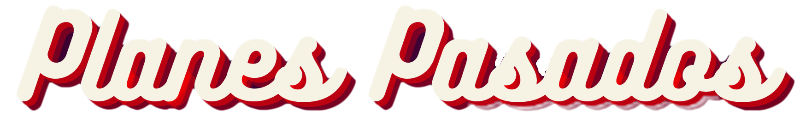
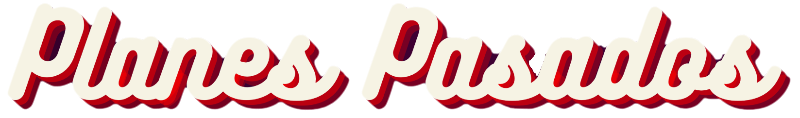
termine los botones

diff --git a/src/screens/LoginScreen.jsx b/src/screens/LoginScreen.jsx
@@ -1,6 +1,6 @@
 //Native
 import AsyncStorage from "@react-native-async-storage/async-storage";
-import { View, Text, ScrollView, Alert } from "react-native";
+import { View, Text, ScrollView, Alert, TouchableOpacity } from "react-native";
 import { useNavigation } from "@react-navigation/native";
 import { LinearGradient } from "expo-linear-gradient";
 import { useDispatch } from "react-redux";
@@ -17,7 +17,8 @@ import { setPlanHistory, setUser, setUserPlans } from "../state/user";
 import { API_URL } from "../services/urls";
 import refetchData from "../services/refetchData";
 import { getPlanHistory } from "../services/getPlanHistory";
-
+import iniciaSesion from '../assets/iniciaSesion.png'
+import { Image } from "react-native";
 export default function LoginScreen() {
   const navigation = useNavigation();
   const dispatch = useDispatch();
@@ -76,12 +77,21 @@ export default function LoginScreen() {
             secureTextEntry={true}
           />
           <View style={styles.inputContainer}>
-            <GenericButton onPress={handleLogin} text={"Iniciar Sesion"} />
+         
+            <View style={styles.logoutContainer}>
+              <TouchableOpacity onPress={handleLogin}>
+                <Image style={styles.logo} source={iniciaSesion} />
+              </TouchableOpacity>
+            </View>
+            
+
             <Text style={styles.text} onPress={handleSignup}>
               ¿No tienes cuenta? Crea una
             </Text>
-          </View>
+
           <GoogleSignInButton />
+          
+          </View>
         </View>
       </ScrollView>
     </LinearGradient>

diff --git a/src/screens/ContactsScreen.jsx b/src/screens/ContactsScreen.jsx
@@ -1,7 +1,7 @@
 // Native
 import { useNavigation } from "@react-navigation/core";
 import { LinearGradient } from "expo-linear-gradient";
-import { View, Text, ScrollView, TouchableOpacity } from "react-native";
+import { View, Text, ScrollView, TouchableOpacity, Image } from "react-native";
 import React, { useEffect, useState } from "react";
 import { useSelector, useDispatch } from "react-redux";
 // Components
@@ -15,7 +15,7 @@ import { fetchContacts } from "../services/fetchContacts";
 import { SingleContact } from "../components/SingleContact";
 import { setSelectedContact } from "../state/selectedContact";
 import { GenericButton } from "../components/GenericButton";
-
+import iniciaSesion from '../assets/iniciaSesion.png'
 export default function ContactsScreen() {
   const [contacts, setContacts] = useState([]);
   const [query, setQuery] = useState("");
@@ -107,10 +107,13 @@ export default function ContactsScreen() {
             Para ver contactos, inicie sesión
           </Text>
           <View style={{ flex: 1, alignItems: "center", marginTop: "5%" }}>
-            <GenericButton
-              text="Iniciar Sesión"
-              onPress={() => navigation.navigate("Login")}
-            />
+          
+<View style={styles.logoutContainer}>
+              <TouchableOpacity onPress={() => navigation.navigate("Login")}>
+                <Image style={styles.logo} source={iniciaSesion} />
+              </TouchableOpacity>
+            </View>
+            
           </View>
         </View>
       )}

diff --git a/src/screens/HomeScreen.jsx b/src/screens/HomeScreen.jsx
@@ -29,6 +29,8 @@ import { getPlanHistory } from "../services/getPlanHistory";
 import noTienesPlanes from "../assets/noTienesPlanes.png";
 import recomendaciones from "../assets/recomendaciones.png";
 import misPlanes from "../assets/misPlanes.png";
+import noPlanesCreados from "../assets/noPlanesCreados.png";
+import planesPasados from "../assets/planesPasados.png";
 
 export default function HomeScreen() {
   const user = useSelector((state) => state.user);
@@ -112,16 +114,16 @@ export default function HomeScreen() {
             {user.history && user.history[0] ? (
               <SwiperComponent
                 plans={user.history}
-                text="Planes pasados"
                 onPress={handlePress}
+                image={planesPasados}
+                styleLogo={styles.logoMisPPasados}
               />
             ) : (
-              <>
-                <Text style={styles.text}>Planes pasados</Text>
-                <Text style={[styles.text, { textAlign: "center" }]}>
-                  No tienes planes en tu historial
-                </Text>
-              </>
+              <View style={{ textAlign: "center" }}>
+                <View style={styles.logoutContainer}>
+                  <Image style={styles.logoNoPlanes} source={noPlanesCreados} />
+                </View>
+              </View>
             )}
           </View>
         )}

diff --git a/src/screens/PreferencesScreen.jsx b/src/screens/PreferencesScreen.jsx
@@ -1,5 +1,5 @@
 import React, { useState, useEffect } from "react";
-import { View, ScrollView, Text } from "react-native";
+import { Image, TouchableOpacity, View, ScrollView, Text } from "react-native";
 import { LinearGradient } from "expo-linear-gradient";
 import { styles } from "../styles/preferencesStyles";
 import { Navbar } from "../components/Navbar";
@@ -9,7 +9,7 @@ import { getCategories } from "../services/getCategories";
 import { addPreferences } from "../services/addPreferences";
 import { useNavigation } from "@react-navigation/core";
 import refetchData from "../services/refetchData";
-
+import actualizar from'../assets/actualizar.png'
 import { updateUser } from "../services/updateUser";
 
 export default function PreferencesScreen() {
@@ -62,11 +62,14 @@ export default function PreferencesScreen() {
             dropdownStyles={styles.inputContainer}
             badgeStyles={styles.badge}
           />
-          <GenericButton
-            customStyle={styles.button}
-            onPress={handleSubmit}
-            text={"Actualizar"}
-          />
+        
+
+<View style={styles.logoutContainer}>
+           <TouchableOpacity onPress={handleSubmit}>
+             <Image style={styles.logo} source={actualizar} />
+           </TouchableOpacity>
+         </View>
+         
         </View>
       </ScrollView>
     </LinearGradient>

diff --git a/src/screens/RegisterScreen.jsx b/src/screens/RegisterScreen.jsx
@@ -1,5 +1,5 @@
 // Native
-import { View, Text, ScrollView, Alert, TextInput } from "react-native";
+import { View, Text, ScrollView, Alert, TextInput, TouchableOpacity, Image } from "react-native";
 import { useNavigation } from "@react-navigation/native";
 import { LinearGradient } from "expo-linear-gradient";
 import React, { useEffect, useState } from "react";
@@ -11,6 +11,7 @@ import { Navbar } from "../components/Navbar";
 import { API_URL } from "../services/urls";
 import { styles } from "../styles/registerScreenStyles";
 import { DatePicker } from "../components/DatePicker";
+import crearCuenta from '../assets/crearCuenta.png'
 
 export default function RegisterScreen() {
   const [username, setUsername] = useState("");
@@ -122,7 +123,15 @@ export default function RegisterScreen() {
 
           <View style={styles.container2}>
             <View style={styles.crearCuenta}>
-              <GenericButton onPress={handleSubmit} text={"Crear Cuenta"} />
+           
+         
+         
+         <View style={styles.logoutContainer}>
+           <TouchableOpacity onPress={handleSubmit}>
+             <Image style={styles.logo} source={crearCuenta} />
+           </TouchableOpacity>
+         </View>
+         
             </View>
           </View>
         </View>

diff --git a/src/components/GoogleSignInButton.jsx b/src/components/GoogleSignInButton.jsx
@@ -8,6 +8,7 @@ import { useDispatch } from "react-redux";
 import { useNavigation } from "@react-navigation/native";
 import { setUser, setUserPlans } from "../state/user";
 import { API_URL, PORT } from "@env";
+import iniciarConGoogle from "../assets/iniciarConGoogle.png";
 
 import * as ReactNative from "react-native";
 import * as WebBrowser from "expo-web-browser";
@@ -131,14 +132,21 @@ const GoogleSignInButton = () => {
   };
 
   return (
-    <ReactNative.SafeAreaView>
-      <ReactNative.View style={styles.inputContainer}>
-        <GenericButton
-          disabled={!request}
-          onPress={onPressButton}
-          text={token ? "login con google" : "signup con google"}
-        />
-      </ReactNative.View>
+    <ReactNative.SafeAreaView style={{width:'100%', alignItems: "center",}}>
+     
+        <ReactNative.View style={styles.googleContainer}>
+          <ReactNative.TouchableOpacity
+
+            disabled={!request}
+            onPress={onPressButton}
+          >
+            <ReactNative.Image
+              style={styles.logoGoogle}
+              source={iniciarConGoogle}
+            />
+          </ReactNative.TouchableOpacity>
+        </ReactNative.View>
+     
     </ReactNative.SafeAreaView>
   );
 };

diff --git a/src/styles/loginScreenStyles.js b/src/styles/loginScreenStyles.js
@@ -8,9 +8,10 @@ export const styles = StyleSheet.create({
   },
   inputContainer: {
     alignItems: "center",
-    flex: 1,
+  
     paddingTop: "10%",
-    width: "70%",
+    width: "80%",
+  
   },
   scroll: {
     flex: 1,
@@ -31,4 +32,35 @@ export const styles = StyleSheet.create({
     fontSize: 16,
     fontWeight: "bold",
   },
+  logo:{
+    width: 120,
+    height: 21,
+  },
+  logoGoogle:{
+    width: 220,
+    height: 26,
+  },
+  logoutContainer: {
+    
+    paddingTop: 12,
+    paddingBottom:12,
+    borderRadius: 25,
+    alignItems: "center",
+    marginBottom: 10,
+    width: "90%",
+    backgroundColor:'rgba(0, 0, 0, 0.4)',
+  
+  },
+  googleContainer: {
+    
+    paddingTop: 10,
+    paddingBottom:10,
+    borderRadius: 25,
+    alignItems: "center",
+    marginBottom: 10,
+    width: "90%",
+    backgroundColor:'rgba(0, 0, 0, 0.4)',
+  
+  },
+  
 });

diff --git a/src/screens/ProfileScreen.jsx b/src/screens/ProfileScreen.jsx
@@ -143,7 +143,7 @@ export default function ProfileScreen() {
            
             <View style={styles.logout1Container}>
             <View style={styles.preferenciasContainer}>
-              <TouchableOpacity onPress={handleLogout}>
+              <TouchableOpacity onPress={handlePreferences}>
                 <Image style={styles.logoPref} source={preferencias} />
               </TouchableOpacity>
              

diff --git a/src/styles/stylesContact.js b/src/styles/stylesContact.js
@@ -60,4 +60,19 @@ export const styles = StyleSheet.create({
     marginTop: "5%",
     textAlign: "center",
   },
+  logo:{
+    width: 160,
+    height: 24,
+  },
+  logoutContainer: {
+    
+    paddingTop: 12,
+    paddingBottom:12,
+    borderRadius: 25,
+    alignItems: "center",
+    marginBottom: 10,
+    width: "75%",
+    backgroundColor:'rgba(0, 0, 0, 0.4)',
+  
+  },
 });

diff --git a/src/styles/registerScreenStyles.js b/src/styles/registerScreenStyles.js
@@ -65,4 +65,19 @@ export const styles = StyleSheet.create({
     alignItems: "center",
    
   },
+  logo:{
+    width: 160,
+    height: 25,
+  },
+  logoutContainer: {
+    
+    paddingTop: 12,
+    paddingBottom:12,
+    borderRadius: 25,
+    alignItems: "center",
+    marginBottom: 10,
+    width: "75%",
+    backgroundColor:'rgba(0, 0, 0, 0.4)',
+  
+  },
 });

diff --git a/src/styles/preferencesStyles.js b/src/styles/preferencesStyles.js
@@ -37,4 +37,16 @@ export const styles = StyleSheet.create({
     textAlign: "center",
     marginBottom: 40,
   },
+  logo:{
+    width: 120,
+    height: 35,
+  },
+  logoutContainer: {
+    paddingTop: 10,
+    borderRadius: 25,
+    alignItems: "center",
+    marginBottom: 10,
+    width: "65%",
+    backgroundColor:'rgba(0, 0, 0, 0.4)',
+  },
 });

diff --git a/src/appCss.js b/src/appCss.js
@@ -18,6 +18,14 @@ export const styles = StyleSheet.create({
     width: 120,
     height: 20,
   },
+  logoNoPlanes: {
+    width: 198,
+    height: 62,
+  },
+  logoMisPPasados:{
+    width: 160,
+    height: 22,
+  },
   logoutContainer: {
     paddingTop:15,
     borderRadius: 18,
